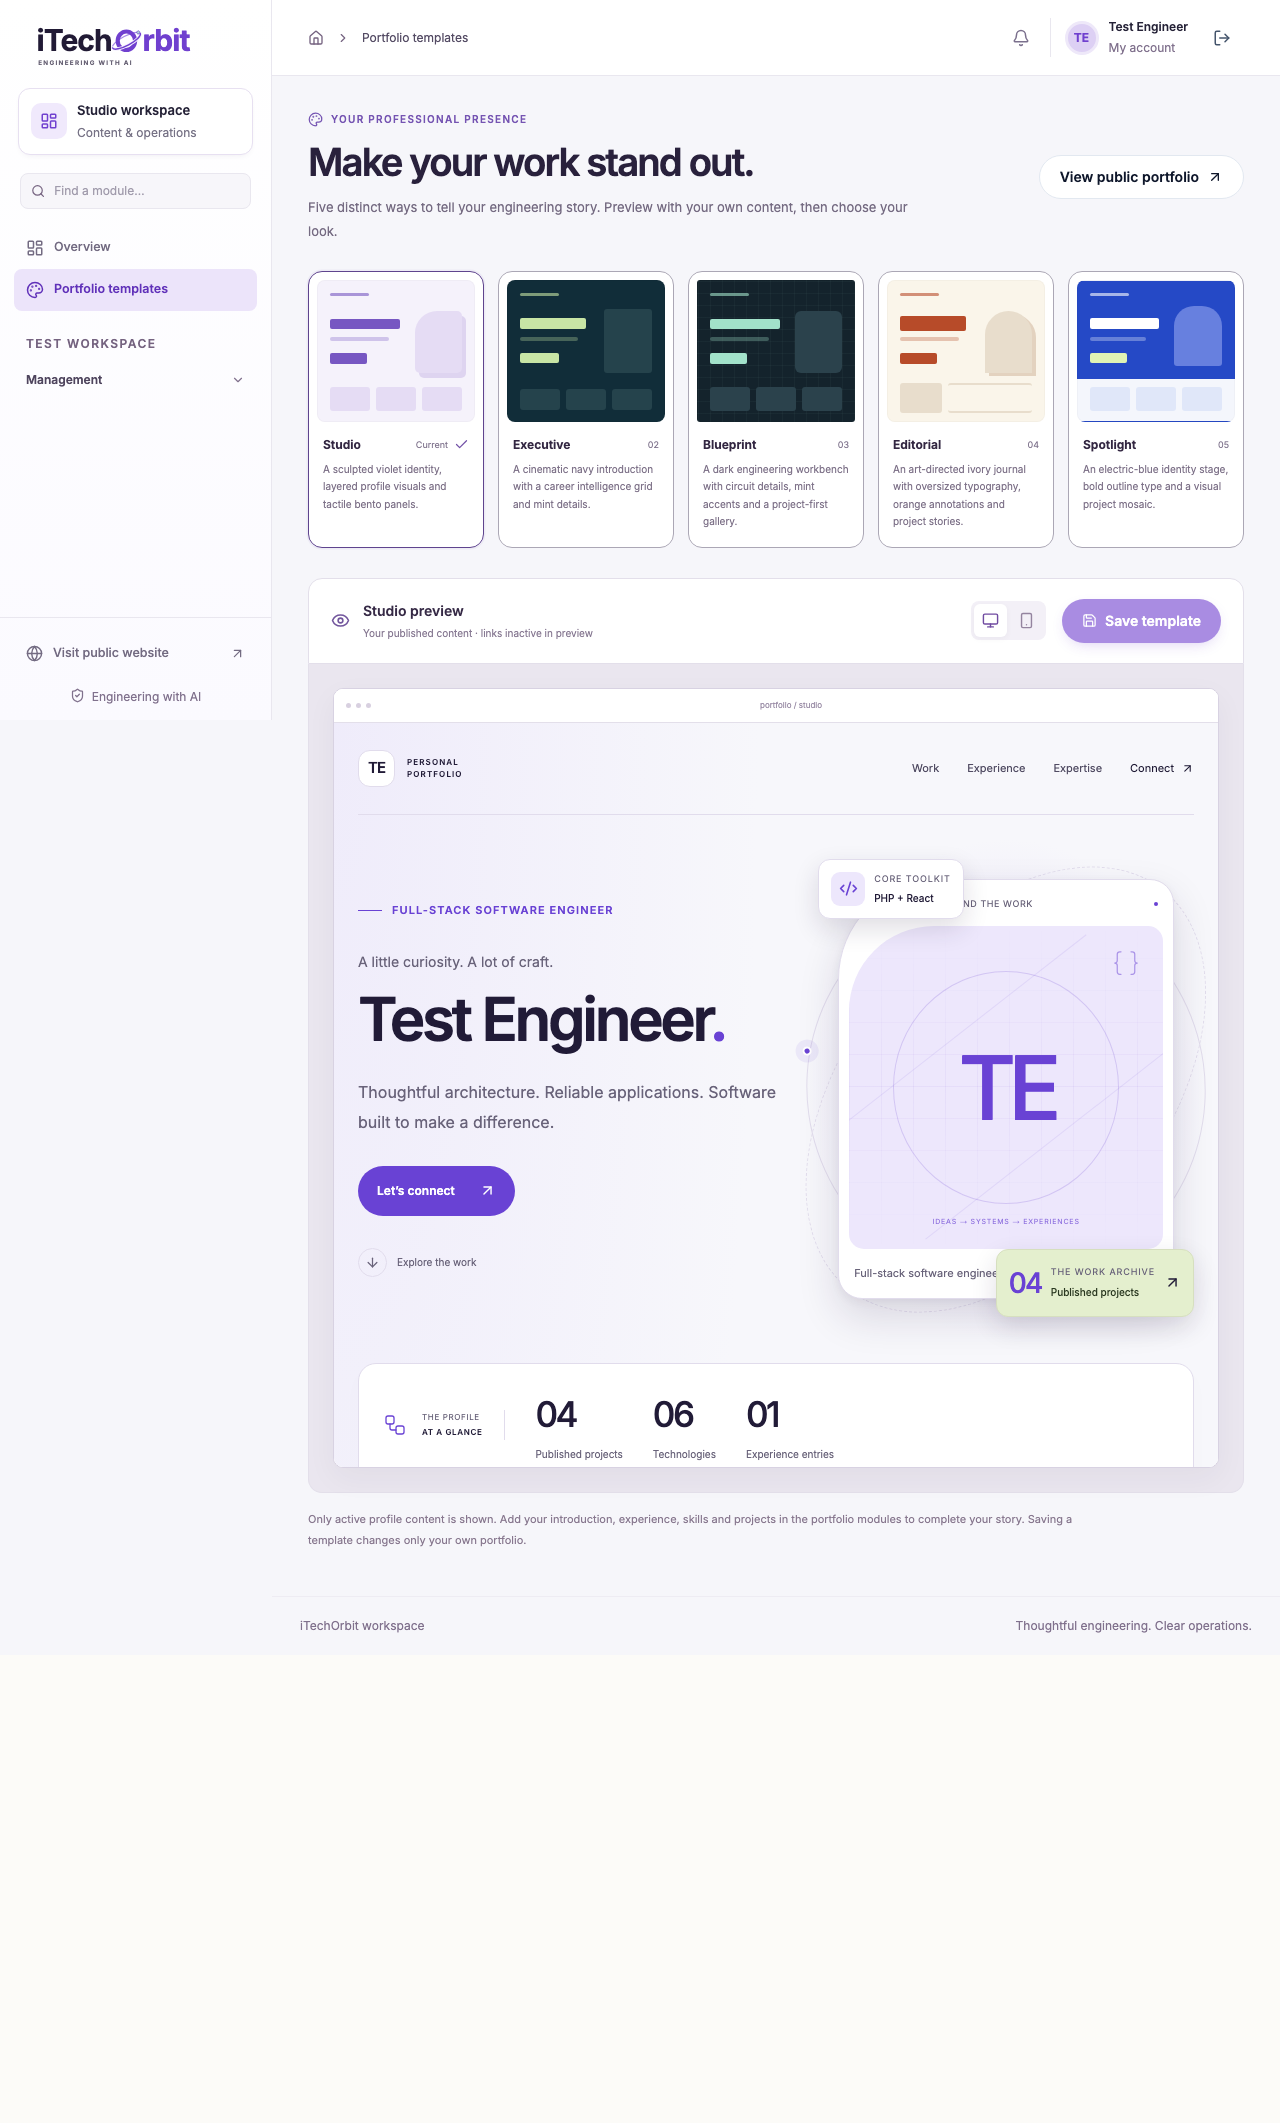
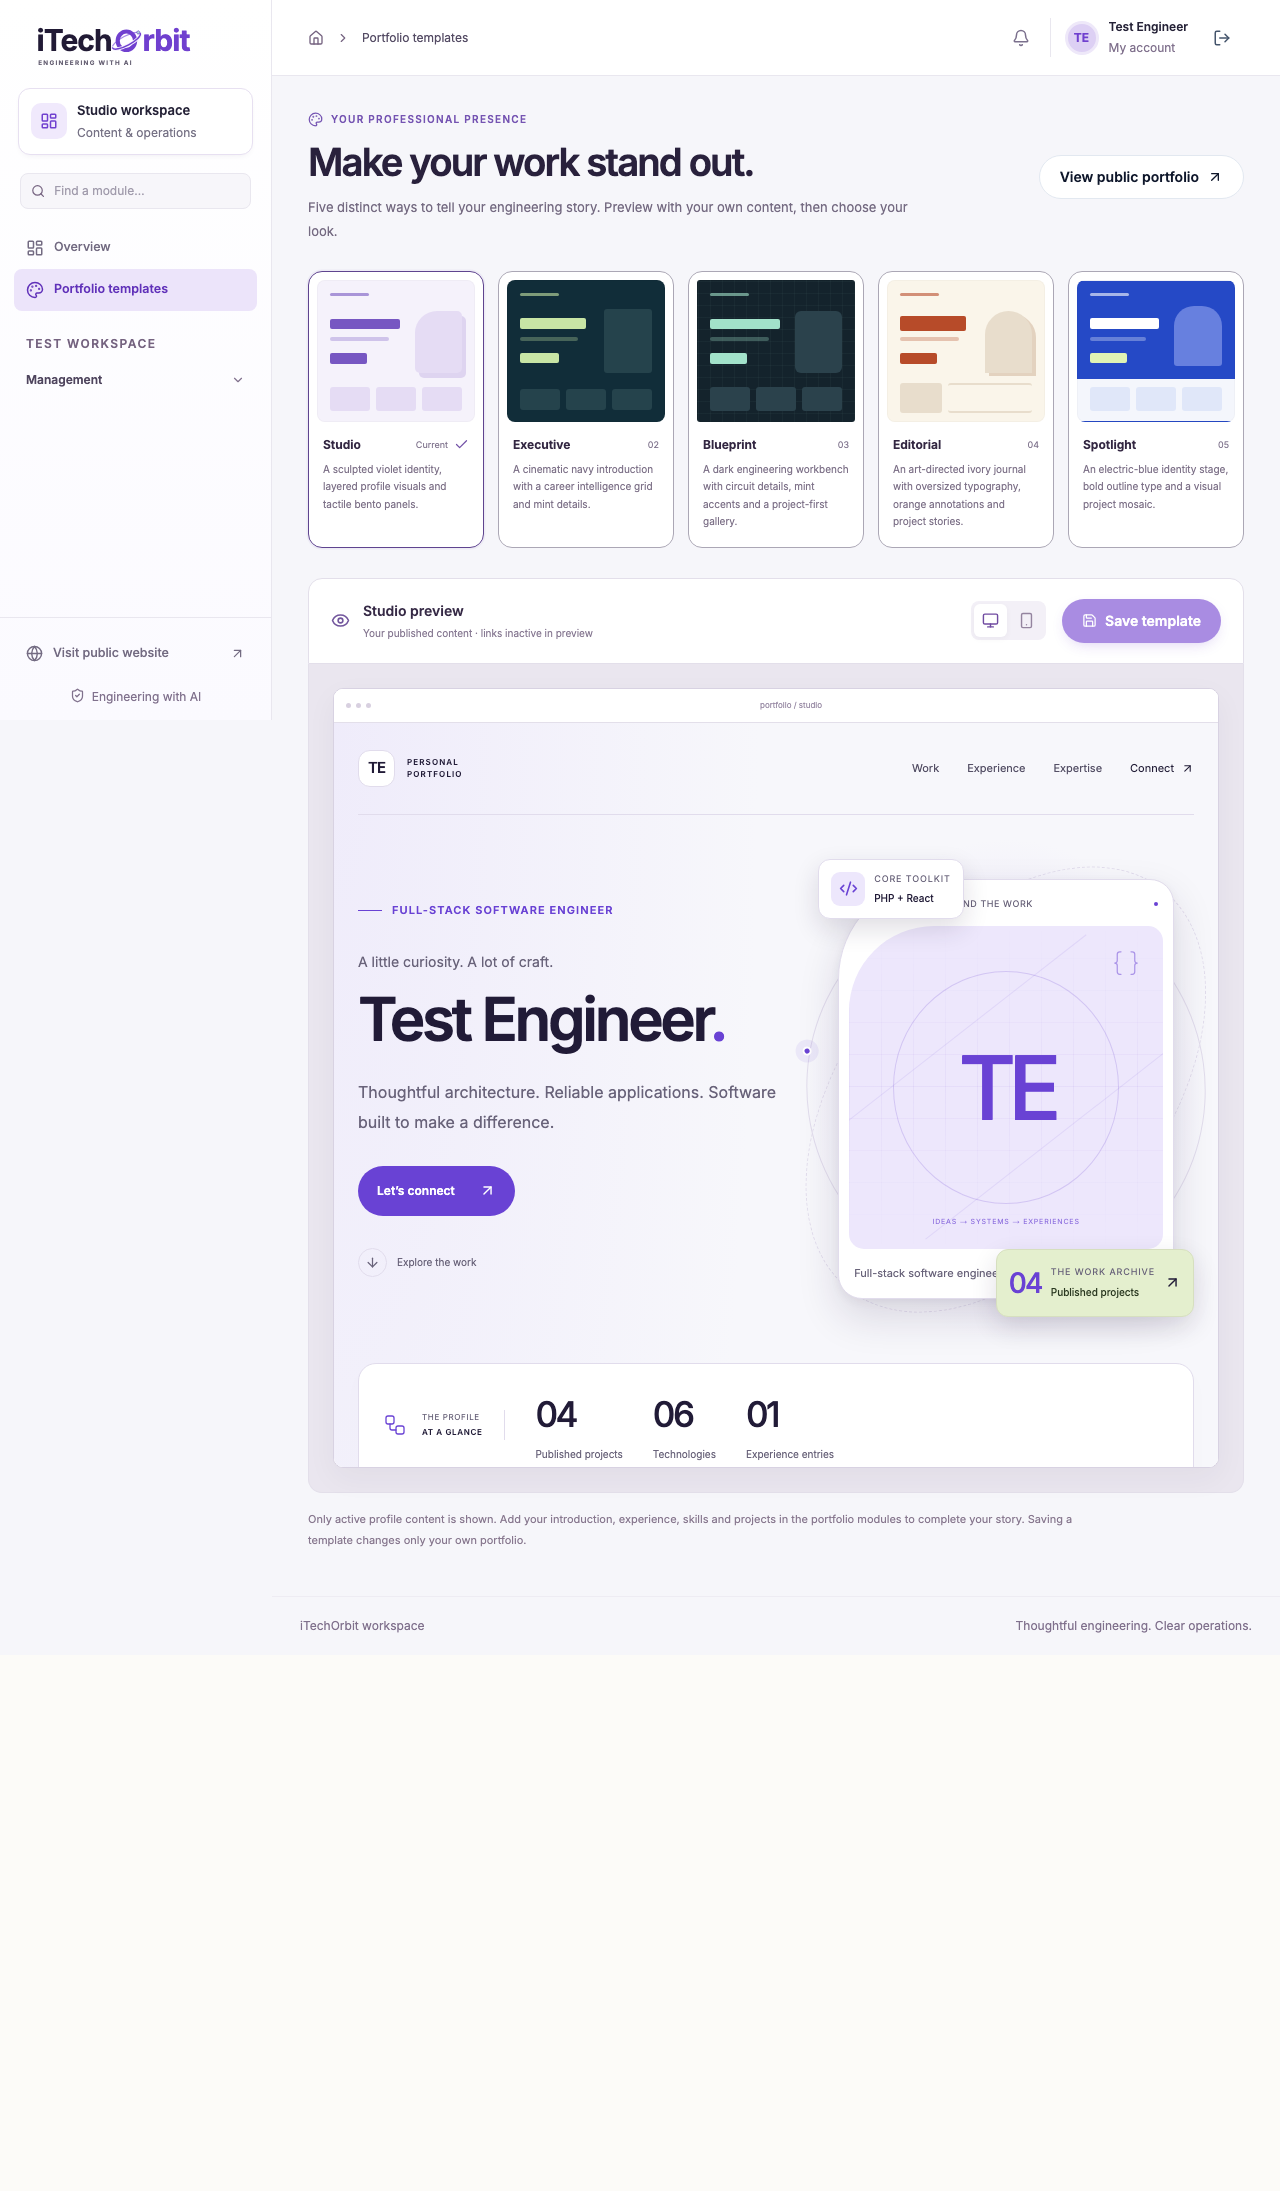
Present About and Expertise as independent premium portfolio rows

diff --git a/resources/js/components/portfolio/PortfolioView.tsx b/resources/js/components/portfolio/PortfolioView.tsx
@@ -1,5 +1,5 @@
 import '../../../css/portfolio.css';
-import { ArrowDown, ArrowUpRight, Download, Code2, Braces, Layers3, MoveUpRight, Command, Fingerprint, Workflow, Circle, ArrowRight } from 'lucide-react';
+import { ArrowDown, ArrowUpRight, Download, Code2, Braces, Layers3, MoveUpRight, Fingerprint, Workflow, Circle, ArrowRight } from 'lucide-react';
 import { useEffect, useRef, useState, type ReactNode } from 'react';
 import { ContactForm } from '@/components/ContactForm';
 import type { Project } from '@/lib/types';
@@ -14,8 +14,8 @@ const initials = (name: string) => name.trim().split(/\s+/).slice(0, 2).map(word
 function Rich({ html, className = '' }: { html?: string; className?: string }) {
   return html ? <div className={`pf-rich ${className}`} dangerouslySetInnerHTML={{ __html: html }} /> : null;
 }
-function Section({ id, title, label, children }: { id: string; title: string; label: string; children: ReactNode }) {
-  return <section className="pf-section" id={id}><div className="pf-section-heading"><div><p className="pf-kicker"><span />{label}</p><h2>{title}</h2></div><span className="pf-section-glyph" aria-hidden="true"><ArrowUpRight size={25} strokeWidth={1} /></span></div>{children}</section>;
+function Section({ id, title, label, children, className = '' }: { id: string; title: string; label: string; children: ReactNode; className?: string }) {
+  return <section className={`pf-section ${className}`} id={id}><div className="pf-section-heading"><div><p className="pf-kicker"><span />{label}</p><h2>{title}</h2></div><span className="pf-section-glyph" aria-hidden="true"><ArrowUpRight size={25} strokeWidth={1} /></span></div>{children}</section>;
 }
 function Actions({ profile }: { profile: Profile }) {
   return <div className="pf-actions"><a href="#connect" className="pf-button"><span>Let’s connect</span><ArrowUpRight size={17} /></a>{profile.cv && <a href={profile.cv} download className="pf-button pf-button-secondary"><span>Download CV</span><Download size={16} /></a>}</div>;
@@ -43,10 +43,10 @@ function Hero({ profile, projects, variant, children }: { profile: Profile; proj
   return <header className="pf-hero"><div className="pf-hero-copy"><div className="pf-hero-label"><span className="pf-label-line" /><span>{profile.designation || 'Engineering portfolio'}</span></div><p className="pf-hero-prelude">{variant === 'blueprint' ? 'Human thinking. System-level craft.' : variant === 'editorial' ? 'A different perspective on engineering.' : variant === 'executive' ? 'Engineering ideas into impact.' : variant === 'spotlight' ? 'The craft behind the experience.' : 'A little curiosity. A lot of craft.'}</p><h1>{profile.name}<span className="pf-name-dot">.</span></h1><Rich html={profile.objective} className="pf-objective" /><Actions profile={profile} /><Socials profile={profile} />{children}</div><Identity profile={profile} projects={projects} technical={variant === 'blueprint'} /></header>;
 }
 function Skills({ profile }: { profile: Profile }) {
-  return profile.skills.length ? <Section id="expertise" label="The toolkit" title="Technology & expertise"><div className="pf-toolkit-heading"><Command size={24} strokeWidth={1.4} /><span>Tools I work with.<br /><strong>Possibilities I build with.</strong></span></div><div className="pf-skills">{profile.skills.map((skill, index) => <span key={skill}><small aria-hidden="true">{String(index + 1).padStart(2, '0')}</small>{skill}<ArrowUpRight size={12} aria-hidden="true" /></span>)}</div></Section> : null;
+  return profile.skills.length ? <Section id="expertise" label="The toolkit" title="Technology & expertise" className="pf-profile-row pf-expertise-row"><div className="pf-profile-content"><div className="pf-skills">{profile.skills.map((skill, index) => <span key={skill}><small aria-hidden="true">{String(index + 1).padStart(2, '0')}</small>{skill}<ArrowUpRight size={13} aria-hidden="true" /></span>)}</div></div></Section> : null;
 }
 function About({ profile }: { profile: Profile }) {
-  return profile.introduction || profile.additional ? <Section id="about" label="Behind the work" title="An engineer. A problem solver."><div className="pf-about-symbol" aria-hidden="true"><Braces size={24} strokeWidth={1.3} /><span>CRAFT + CURIOSITY</span></div><Rich html={profile.introduction} /><Rich html={profile.additional} className="pf-additional" /></Section> : null;
+  return profile.introduction || profile.additional ? <Section id="about" label="Behind the work" title="An engineer. A problem solver." className="pf-profile-row pf-about-row"><div className="pf-profile-content"><Rich html={profile.introduction} /><Rich html={profile.additional} className="pf-additional" /></div></Section> : null;
 }
 function Experience({ profile }: { profile: Profile }) {
   return profile.experiences.length ? <Section id="experience" label="Career journey" title="Experience that shapes the work"><div className="pf-timeline">{profile.experiences.map((experience, i) => <article key={i} className="pf-experience"><div className="pf-experience-index"><span>{String(i + 1).padStart(2, '0')}</span><p className="pf-date">{experience.join_date ? dateLabel(experience.join_date) : ''}{experience.join_date && ' — '}{experience.resign_date ? dateLabel(experience.resign_date) : 'Present'}</p></div><div className="pf-experience-body"><div className="pf-experience-top"><div><h3>{experience.designation}</h3><p className="pf-organization">{experience.organization}</p></div>{!experience.resign_date && <span className="pf-current-role"><span />Current role</span>}</div><Rich html={experience.responsibilities} /><Rich html={experience.descriptions} /></div></article>)}</div></Section> : null;
@@ -91,11 +91,11 @@ export function PortfolioView({ profile, projects, template, preview = false }: 
   const hero = <Hero profile={profile} projects={projects} variant={style}>{projects.length > 0 && <a href="#projects" className="pf-scroll-link"><span><ArrowDown size={15} /></span>Explore the work</a>}</Hero>;
   return <div ref={canvas} id="portfolio-top" className={`portfolio-view pf-${style}`} data-template={style} onClick={preview ? event => { if ((event.target as Element).closest('a')) event.preventDefault(); } : undefined}>
     <div className="shell pf-shell"><SectionNav profile={profile} projects={projects} />
-      {style === 'executive' ? <><div className="pf-executive-stage">{hero}<div className="pf-executive-signoff"><span>ENGINEERING / PERSPECTIVE / EXECUTION</span><Fingerprint size={22} strokeWidth={1} /></div></div><Facts profile={profile} projects={projects} />{work}<div className="pf-executive-grid">{experience}{skills}{about}</div>{services}</>
-        : style === 'blueprint' ? <><div className="pf-terminal-bar"><span><span className="pf-terminal-dot" /> engineer.profile</span><span>HUMAN AT THE CORE / ENGINEERING AT THE EDGES</span></div>{hero}{work}<div className="pf-split">{skills}{about}</div>{experience}{services}</>
-        : style === 'editorial' ? <><div className="pf-editorial-masthead"><span>THE ENGINEERING EDITION</span><span>INDEPENDENT THINKING. INTENTIONAL CRAFT.</span></div>{hero}<div className="pf-editorial-intro">{about}{skills}</div>{work}{experience}{services}</>
-        : style === 'spotlight' ? <><div className="pf-spotlight-stage">{hero}<div className="pf-spotlight-ticker" aria-hidden="true"><span>ENGINEER.</span><span>CREATE.</span><span>ITERATE.</span><ArrowUpRight size={48} strokeWidth={1} /></div></div>{work}<div className="pf-split">{about}{skills}</div>{experience}{services}</>
-        : <>{hero}<Facts profile={profile} projects={projects} /><div className="pf-split">{about}{skills}</div>{work}{experience}{services}</>}
+      {style === 'executive' ? <><div className="pf-executive-stage">{hero}<div className="pf-executive-signoff"><span>ENGINEERING / PERSPECTIVE / EXECUTION</span><Fingerprint size={22} strokeWidth={1} /></div></div><Facts profile={profile} projects={projects} />{work}{experience}<div className="pf-profile-sections">{about}{skills}</div>{services}</>
+        : style === 'blueprint' ? <><div className="pf-terminal-bar"><span><span className="pf-terminal-dot" /> engineer.profile</span><span>HUMAN AT THE CORE / ENGINEERING AT THE EDGES</span></div>{hero}{work}<div className="pf-profile-sections">{about}{skills}</div>{experience}{services}</>
+        : style === 'editorial' ? <><div className="pf-editorial-masthead"><span>THE ENGINEERING EDITION</span><span>INDEPENDENT THINKING. INTENTIONAL CRAFT.</span></div>{hero}<div className="pf-profile-sections">{about}{skills}</div>{work}{experience}{services}</>
+        : style === 'spotlight' ? <><div className="pf-spotlight-stage">{hero}<div className="pf-spotlight-ticker" aria-hidden="true"><span>ENGINEER.</span><span>CREATE.</span><span>ITERATE.</span><ArrowUpRight size={48} strokeWidth={1} /></div></div>{work}<div className="pf-profile-sections">{about}{skills}</div>{experience}{services}</>
+        : <>{hero}<Facts profile={profile} projects={projects} /><div className="pf-profile-sections">{about}{skills}</div>{work}{experience}{services}</>}
       <Contact profile={profile} preview={preview} /><footer className="pf-signature"><span><Fingerprint size={15} />{profile.name} / Engineering portfolio</span><a href="/">Built on iTechOrbit <ArrowUpRight size={12} /></a></footer>
     </div>
   </div>;

diff --git a/resources/css/portfolio.css b/resources/css/portfolio.css
@@ -341,3 +341,29 @@
 /* Match the shared site's gutters at the preview container's width as well. */
 @container(max-width:1023px) { .pf-shell { padding-inline:1.5rem; } }
 @container(max-width:380px) { .pf-shell { padding-inline:1.25rem; } }
+
+/* Independent full-width profile rows: natural height without competing side cards. */
+.pf-profile-sections { display:grid; gap:18px; margin:16px 0; }
+.pf-profile-sections:empty { display:none; }
+.pf-profile-row { display:grid; grid-template-columns:minmax(0,.8fr) minmax(0,1.35fr); gap:42px; align-items:start; margin:0; padding:32px; border:1px solid var(--pf-line); border-radius:20px; background:var(--pf-card); box-shadow:0 7px 24px #21143a0c; }
+.pf-profile-row .pf-section-heading { margin:0; align-items:start; gap:18px; }
+.pf-profile-row .pf-section-heading h2 { font-size:clamp(26px,2.8cqw,36px); line-height:1.2; }
+.pf-profile-row .pf-section-glyph { width:35px; height:35px; }
+.pf-profile-content { min-width:0; border-left:1px solid var(--pf-line); padding-left:32px; }
+.pf-profile-content .pf-rich:last-child>:last-child { margin-bottom:0; }
+.pf-expertise-row { background:linear-gradient(115deg,var(--pf-card) 35%,var(--pf-soft)); }
+.pf-profile-row .pf-skills { display:flex; justify-content:center; flex-wrap:wrap; gap:10px; }
+.pf-profile-row .pf-skills>span,.pf-profile-row .pf-skills>span:last-child:nth-child(odd) { flex:1 1 145px; min-width:0; width:auto; max-width:calc(50% - 5px); grid-column:auto; padding:15px; font-size:13px; background:var(--pf-card); border-radius:10px; }
+.pf-profile-row .pf-skills>span:only-child { max-width:100%; }
+.pf-profile-row .pf-skills small { font-size:10px; }
+.pf-blueprint .pf-profile-row { border-radius:6px; box-shadow:0 10px 26px #00000035; }
+.pf-editorial .pf-profile-row { border-radius:8px; }
+@container(max-width:800px) {
+  .pf-profile-row { grid-template-columns:1fr; padding:26px; gap:22px; }
+  .pf-profile-row .pf-section-heading h2 { font-size:29px; }
+  .pf-profile-content { padding:22px 0 0; border-left:0; border-top:1px solid var(--pf-line); }
+}
+@container(max-width:480px) {
+  .pf-profile-row { padding:23px 20px; border-radius:15px; }
+  .pf-profile-row .pf-skills>span,.pf-profile-row .pf-skills>span:last-child:nth-child(odd) { flex-basis:120px; padding:12px; font-size:12px; }
+}

diff --git a/tests/browser/website.spec.ts b/tests/browser/website.spec.ts
@@ -302,6 +302,16 @@ test('portfolio template studio previews five layouts and persists the public se
     await expect(page.locator('.portfolio-view')).toHaveAttribute('data-template', name.toLowerCase());
     await expect(page.getByRole('heading', { level: 1 })).toHaveText(/Test Engineer/);
     await expect(page.getByRole('heading', { name: 'Built with purpose.' })).toBeVisible();
+    const profileRows = await page.locator('.pf-profile-sections').evaluate(container => {
+      const box = container.getBoundingClientRect();
+      const about = container.querySelector('#about')!.getBoundingClientRect();
+      const expertise = container.querySelector('#expertise')!.getBoundingClientRect();
+      return { width: box.width, aboutWidth: about.width, expertiseWidth: expertise.width, gap: expertise.top - about.bottom };
+    });
+    expect(Math.abs(profileRows.aboutWidth - profileRows.width)).toBeLessThan(1);
+    expect(Math.abs(profileRows.expertiseWidth - profileRows.width)).toBeLessThan(1);
+    expect(profileRows.gap).toBeGreaterThanOrEqual(16);
+
     const originalViewport = page.viewportSize()!;
     const alignmentSizes = [originalViewport, ...(!isMobile ? [{ width: 768, height: 900 }, { width: 1440, height: 900 }] : [])];
     for (const viewport of alignmentSizes) {

diff --git a/docs/PORTFOLIO_TEMPLATES.md b/docs/PORTFOLIO_TEMPLATES.md
@@ -103,3 +103,9 @@ Entrance motion keeps text fully opaque from the first frame; only its position 
 Public portfolio content now reuses the exact shared `.shell` used by the header and footer: 80rem maximum outer width with 1.5rem gutters below the desktop breakpoint and 2.5rem on desktop (1.25rem on very narrow screens). Removed the competing portfolio-only maximum width and width-minus-gutter calculations. The personal contact page uses the same shell. Admin previews use matching container-width gutter rules without nesting another padded container.
 
 Browser coverage measures both left/right portfolio content edges against the header and footer for each template at the standard mobile viewport and 768px, 1280px and 1440px desktop/tablet widths. Existing template content, cards, uploads and contact behavior are unchanged.
+
+## Independent About and Expertise sections — 2026-10-16
+
+About and Technology & Expertise are now two separate full-width rows in every template. They no longer occupy unequal-height side-by-side cards. Each row has a heading column and a readable content column, separated by a quiet vertical rule; narrow layouts stack those elements with a horizontal divider. Expertise tiles wrap within their own full-width section. Existing text, theme colors, subtle shadows and reduced-motion handling are retained. Empty rows remain omitted.
+
+Verified all five designs in both public pages and admin previews, including full-row width/non-overlap measurements and shared header/footer edges. All 6 affected desktop/mobile browser flows pass, including personal contact and screenshot upload. TypeScript, lint and client/SSR builds pass. Updated screenshots above show the final row composition.

diff --git a/docs/IMPLEMENTATION_CHECKLIST.md b/docs/IMPLEMENTATION_CHECKLIST.md
@@ -227,3 +227,8 @@ Status legend: [x] implemented/verified, [ ] pending. Updated continuously; inco
 - [x] Identify independent 1,120px portfolio width and mismatched 18/24/32px gutters versus the shared site shell.
 - [x] Reuse `.shell` in public portfolios and personal contact pages; remove competing portfolio width rules and match preview gutters by container width.
 - [x] Verify both content edges against the header/footer for all five templates on mobile, tablet, desktop and wide desktop: all 6 affected browser scenarios pass, including uploads and personal contact. Types/lint and client/SSR builds pass. Review and refresh captures.
+
+## Independent premium About and Expertise rows — 2026-10-16
+- [x] Replace competing side-by-side sections in all five templates with two independent full-width rows.
+- [x] Create a title/content row layout, subtle dividers, theme-aware surfaces and responsive expertise tiles; preserve natural section heights and existing content.
+- [x] Verify full-width stacked row geometry in all five templates, responsive header/footer alignment, contact forms and screenshot uploads: all 6 desktop/mobile browser checks pass. TypeScript, lint and client/SSR builds pass; review and refresh captures.

diff --git a/docs/COMPLETION_REPORT.md b/docs/COMPLETION_REPORT.md
@@ -185,3 +185,7 @@ Final full browser regression result for the project card/upload correction: 34 
 Replaced the independent portfolio width/gutters with the shared site `.shell`, aligning both edges with the header/footer. Personal contact pages use the same shell; preview sizing remains container-responsive. TypeScript, lint and client/SSR builds pass. Added geometric edge checks to each template's desktop/mobile browser flow, including tablet and wide desktop widths. No environment, dependency, database or content changes were required.
 
 Alignment verification: all 6 affected desktop/mobile browser checks passed, including geometric checks for all five templates at tablet/desktop widths. Refreshed the saved portfolio captures.
+
+## Premium profile rows — 2026-10-16
+
+Moved About and Technology & Expertise into separate full-width rows across all five portfolio designs, with heading/content columns, dividers and theme-aware surfaces. Mobile stacks the contents; section heights follow their own content. Added geometry regression checks and refreshed captures. All 6 affected desktop/mobile browser flows, TypeScript, lint and client/SSR builds pass. No data, environment, dependencies or migrations changed.
